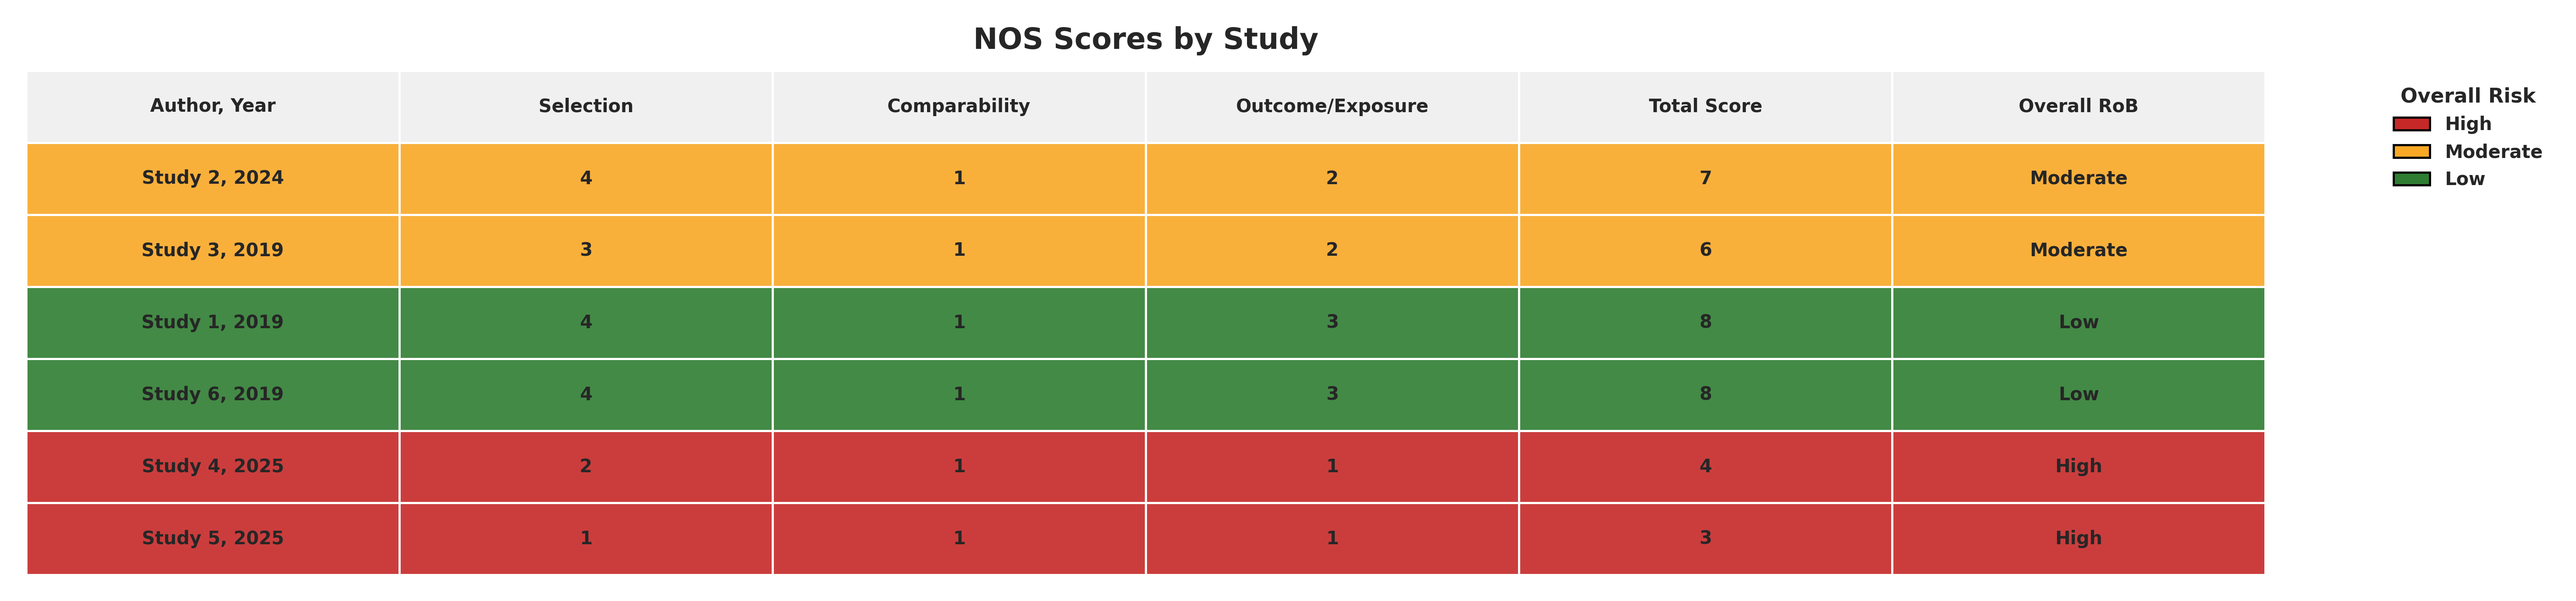
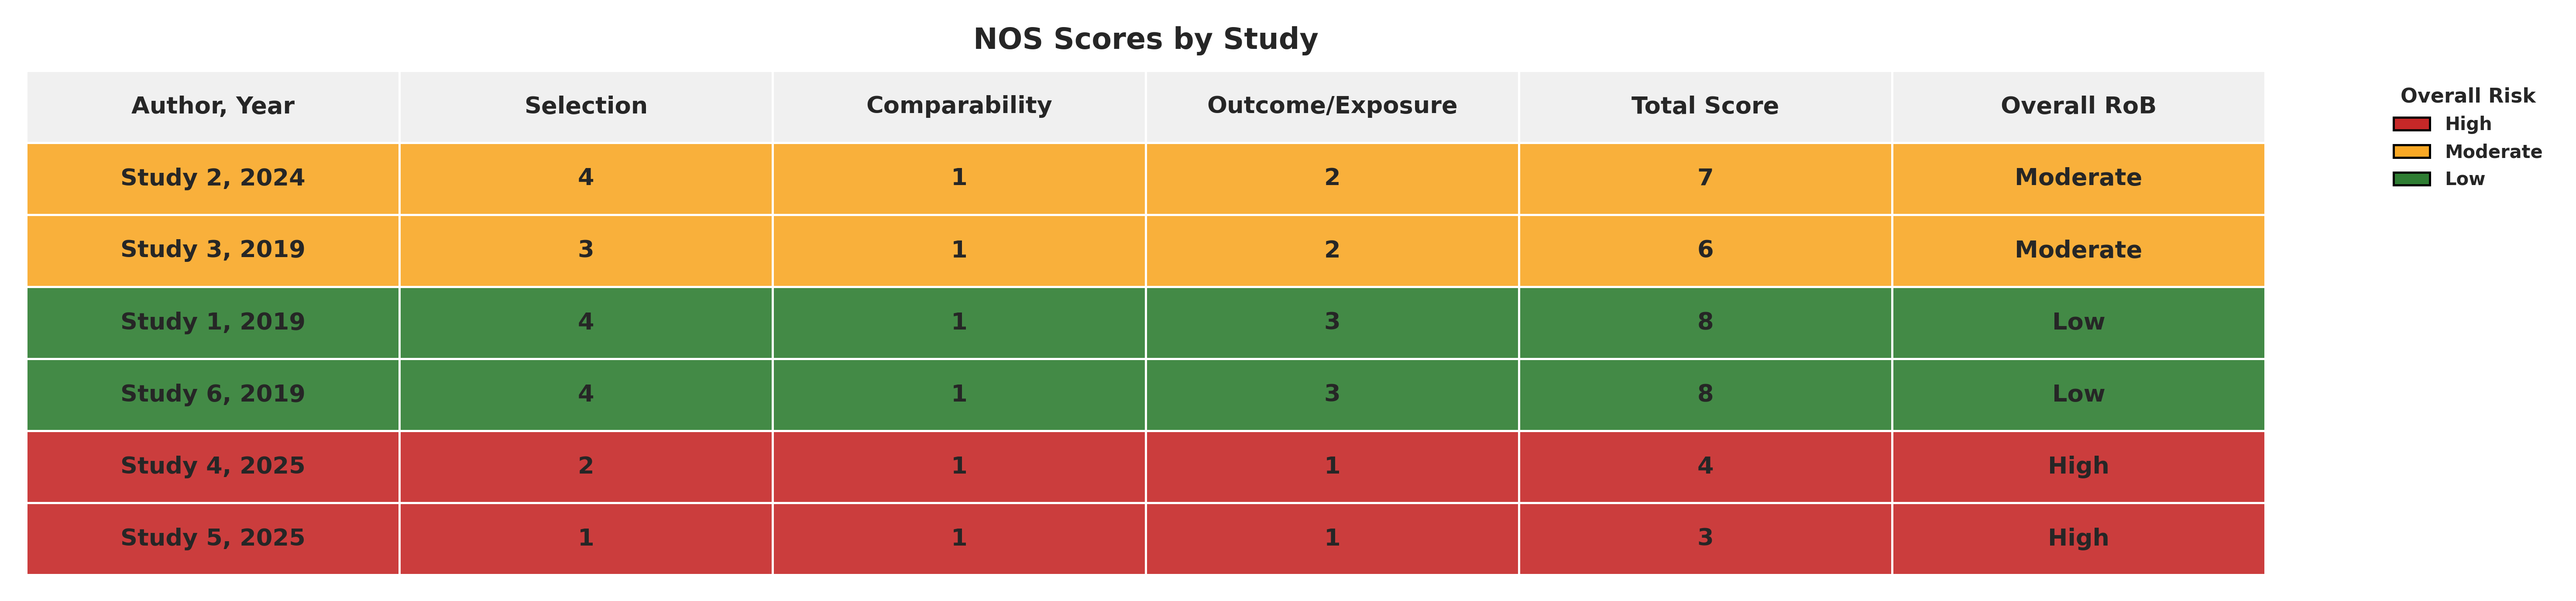
final

diff --git a/nos_tlplot.py b/nos_tlplot.py
@@ -534,7 +534,7 @@ def plot_score_table(df: pd.DataFrame, output_file: str, theme: str = "traffic_l
     )
     
     table.auto_set_font_size(False)
-    table.set_fontsize(10)
+    table.set_fontsize(13)
     
     for key, cell in table.get_celld().items():
         cell.set_text_props(weight='bold')
